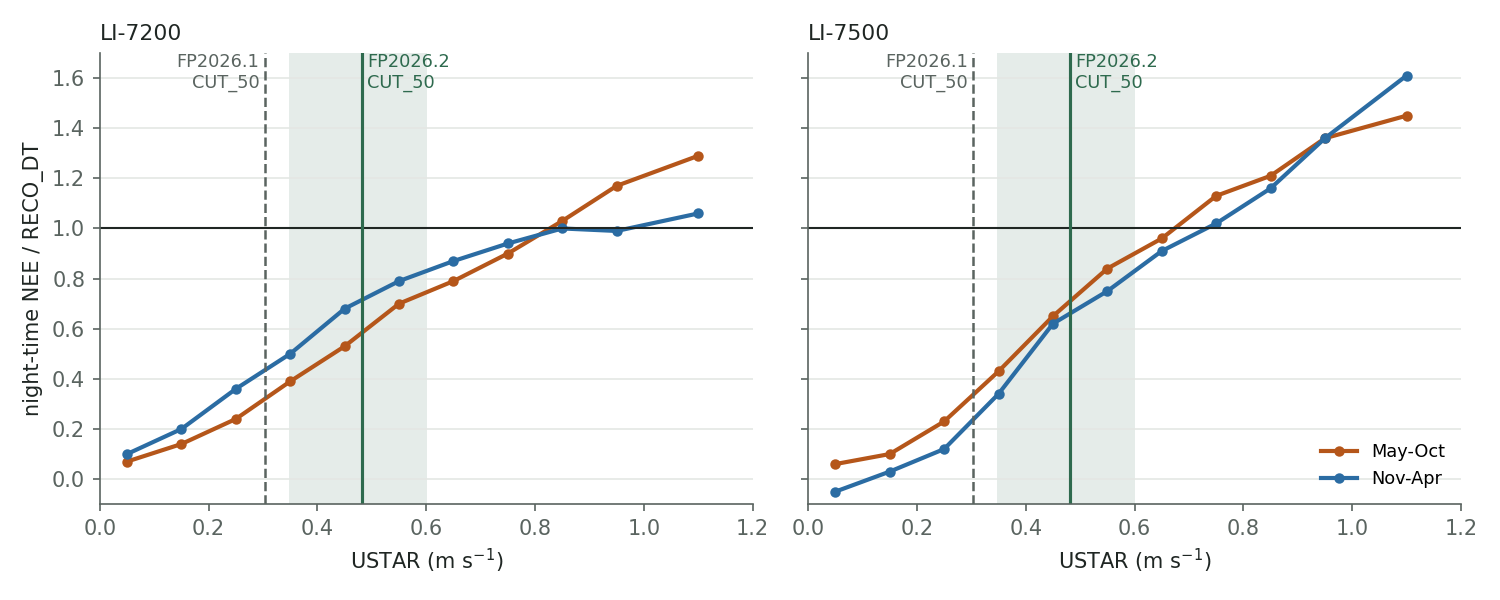
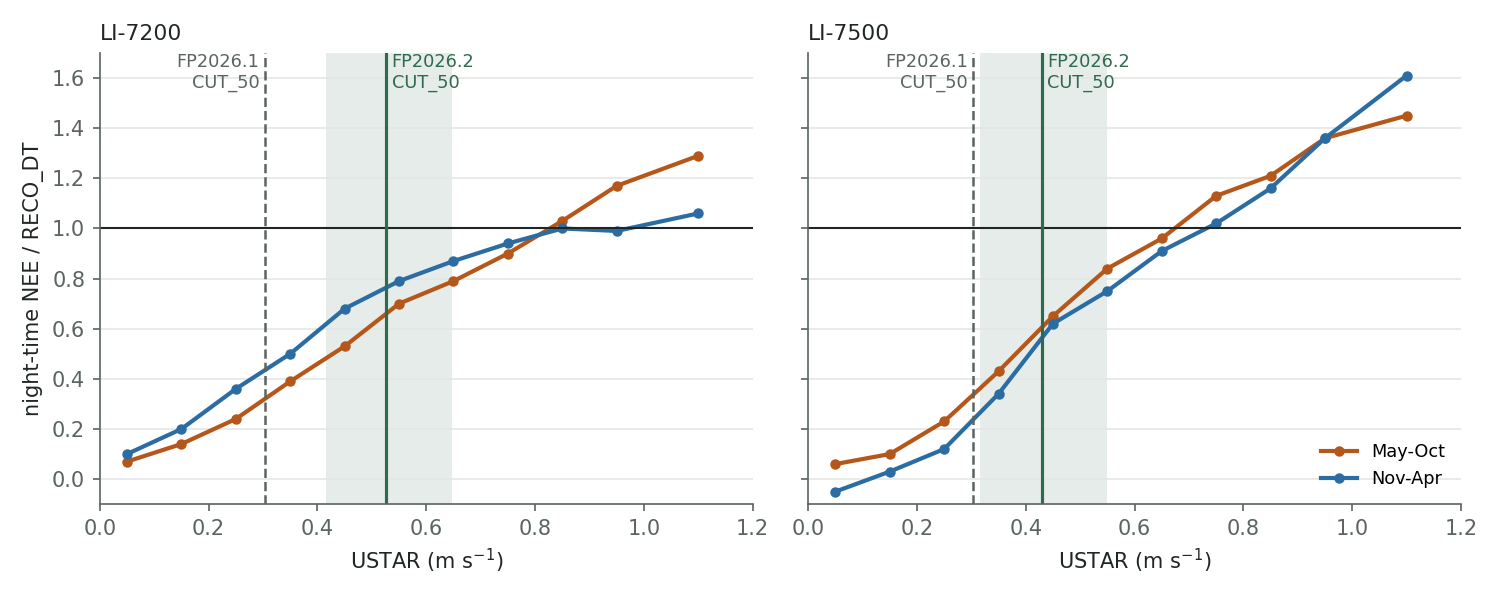
Show the per-analyser thresholds on the USTAR constraints page
The figures mark each analyser's own set, and the page adds a section on the higher thresholds from 2018.

Changed region(s): [[0.184, 0.09, 0.3067, 0.84], [0.644, 0.09, 0.7667, 0.84]]

diff --git a/workflow/30_FLUX_POST-PROCESSING_CHAIN/USTAR_THRESHOLD_DETECTION_docs_figures.py b/workflow/30_FLUX_POST-PROCESSING_CHAIN/USTAR_THRESHOLD_DETECTION_docs_figures.py
@@ -17,8 +17,8 @@ ROOT = Path(__file__).resolve().parents[2]
 NB = ROOT / 'workflow' / '30_FLUX_POST-PROCESSING_CHAIN' / 'USTAR_THRESHOLD_DETECTION_2004-2026.09.ipynb'
 OUT = ROOT / 'docs' / 'images'
 
-# Thresholds (m s-1), as declared in the detection notebook (USTAR_SET, USTAR_THRESHOLDS_FP1)
-FP2 = [0.3476, 0.4811, 0.6011]
+# Thresholds (m s-1), as declared in the detection notebook (USTAR_THRESHOLDS, USTAR_THRESHOLDS_FP1)
+FP2 = {'LI-7200': [0.4155, 0.5264, 0.6472], 'LI-7500': [0.3166, 0.4294, 0.5487]}
 FP1 = [0.2716, 0.3036, 0.3397]
 
 INK, MUTED, GRID = '#1F2623', '#5A6460', '#E4E7E4'
@@ -49,13 +49,13 @@ def mid(label):
     return (lo + hi) / 2
 
 
-def thresholds(ax, ymax_label=True):
-    ax.axvspan(FP2[0], FP2[2], color=BAND, alpha=0.12, lw=0)
-    ax.axvline(FP2[1], color=BAND, lw=1.5)
+def thresholds(ax, fp2, ymax_label=True):
+    ax.axvspan(fp2[0], fp2[2], color=BAND, alpha=0.12, lw=0)
+    ax.axvline(fp2[1], color=BAND, lw=1.5)
     ax.axvline(FP1[1], color=MUTED, lw=1.2, ls='--')
     if ymax_label:
         y = ax.get_ylim()[1]
-        ax.text(FP2[1] + 0.01, y, 'FP2026.2\nCUT_50', va='top', ha='left', fontsize=8.5, color=BAND)
+        ax.text(fp2[1] + 0.01, y, 'FP2026.2\nCUT_50', va='top', ha='left', fontsize=8.5, color=BAND)
         ax.text(FP1[1] - 0.01, y, 'FP2026.1\nCUT_50', va='top', ha='right', fontsize=8.5, color=MUTED)
 
 
@@ -74,7 +74,7 @@ def fig_nee_by_ta(nb):
         ax.grid(axis='y', color=GRID, lw=0.8)
         ax.set_xlim(0, 1.2)
         ax.set_ylim(-0.5, 11)
-        thresholds(ax)
+        thresholds(ax, FP2[name.split(' ')[0]])
     axes[0].set_ylabel('mean night-time NEE (µmol m$^{-2}$ s$^{-1}$)')
     axes[1].legend(title='air temperature', frameon=False, loc='lower right', fontsize=8.5, title_fontsize=8.5)
     fig.tight_layout()
@@ -105,7 +105,7 @@ def fig_ratio_reco_dt(nb):
         ax.grid(axis='y', color=GRID, lw=0.8)
         ax.set_xlim(0, 1.2)
         ax.set_ylim(-0.1, 1.7)
-        thresholds(ax)
+        thresholds(ax, FP2[name])
     axes[0].set_ylabel('night-time NEE / RECO_DT')
     axes[1].legend(frameon=False, loc='lower right', fontsize=8.5)
     fig.tight_layout()
@@ -125,9 +125,11 @@ def fig_thresholds(nb):
     names = {'oneflux_mp': 'moving point', 'oneflux_cp': 'change point', 'oneflux': 'ONEFlux (both)',
              'reddyproc': 'REddyProc'}
     items = [('FP2026.1 (REddyProc, 30 classes)', FP1, MUTED),
-             ('FP2026.2: merged record, moving point', FP2, BAND)]
+             ('FP2026.2 LI-7500: own record, moving point', FP2['LI-7500'], BAND),
+             ('FP2026.2 LI-7200: own record, moving point', FP2['LI-7200'], BAND),
+             ('merged record, moving point (not used)', det[('merged record', 'oneflux_mp')], MUTED)]
     for rec in ['LI-7200', 'LI-7500']:
-        for m in ['oneflux_mp', 'oneflux_cp', 'oneflux', 'reddyproc']:
+        for m in ['oneflux_cp', 'oneflux', 'reddyproc']:
             items.append((f'{rec} record, {names[m]}', det[(rec, m)], INK))
     lo7500 = [v for y, v in vut.items() if y <= 2015]
     lo7200 = [v for y, v in vut.items() if y >= 2016]

diff --git a/docs/L3.3_Constraints.md b/docs/L3.3_Constraints.md
@@ -6,11 +6,11 @@ it means for the use of `NEE`, `RECO` and `GPP`. The filter and its thresholds a
 [`USTAR_THRESHOLD_DETECTION`](notebooks/30_FLUX_POST-PROCESSING_CHAIN/USTAR_THRESHOLD_DETECTION_2004-2026.09.html).
 
 ::: {.callout-note title="Thresholds on this page"}
-FP2026.2 uses one set for both analysers, detected with the ONEFlux moving point method on the
-record of the site (LI-7500 2004-2015, LI-7200 2016-2025): 0.348, 0.481 and 0.601 m s-1 for
-`CUT_16`, `CUT_50` and `CUT_84`. The set is applied from the next run of the flux chain;
-[Level 3.3](L3.3.md) still lists the per-analyser sets of the run of 1 November 2026, from which
-`RECO_DT` in @fig-c33-reco-dt comes. The figures are drawn from the outputs of the detection
+FP2026.2 uses one set per analyser, detected with the ONEFlux moving point method on its own
+complete years (`CUT_16`, `CUT_50`, `CUT_84`): 0.317, 0.429 and 0.549 m s-1 for the LI-7500
+(2004-2017), 0.416, 0.526 and 0.647 m s-1 for the LI-7200 (2016-2025). The sets are applied from the
+next run of the flux chain; [Level 3.3](L3.3.md) still lists the sets of the run of 1 November
+2026, from which `RECO_DT` in @fig-c33-reco-dt comes. The figures are drawn from the outputs of the detection
 notebook by `USTAR_THRESHOLD_DETECTION_docs_figures.py` in the same folder.
 :::
 
@@ -22,6 +22,8 @@ notebook by `USTAR_THRESHOLD_DETECTION_docs_figures.py` in the same folder.
   thresholds are lower bounds.
 - The detected value depends on the method, the record and the amount of data per detection: the
   medians range from 0.30 to 0.67 m s-1.
+- The annual thresholds are higher from 2018 than before, because the LI-7200 keeps more of the
+  windy nights than the LI-7500.
 - No independent reference fixes the threshold: the respiration of the daytime partitioning depends
   on it.
 - Annual `NEE` is therefore likely biased towards uptake, by an amount the tower data cannot
@@ -36,8 +38,8 @@ the FP2026.1 nor the FP2026.2 threshold marks the start of a plateau.
 
 ![Mean night-time `NEE` (`SW_IN` below 10 W m-2, after Level 3.2, before the USTAR filter) per
 0.1 m s-1 class of `USTAR` and five classes of air temperature, for the record of each analyser. The
-shaded band spans `CUT_16` to `CUT_84` of FP2026.2, the solid line is its `CUT_50`, the dashed line
-the `CUT_50` of FP2026.1.](images/USTAR_night_NEE_by_TA_class.png){#fig-c33-nee-ta}
+shaded band spans `CUT_16` to `CUT_84` of FP2026.2 for that analyser, the solid line is its
+`CUT_50`, the dashed line the `CUT_50` of FP2026.1.](images/USTAR_night_NEE_by_TA_class.png){#fig-c33-nee-ta}
 
 Two processes may contribute to the increase above any threshold:
 
@@ -69,10 +71,24 @@ The grey band marks the `USTAR` up to which night-time `NEE` increases.](images/
   September. The thresholds of single years are low partly because the class means of one year are
   noisy and pass the plateau test early.
 - **Record.** The record of each analyser gives a different `CUT_50` (0.43 m s-1 for the LI-7500,
-  0.52 m s-1 for the LI-7200). On the records both measured in 2016-2017 they agree within
+  0.53 m s-1 for the LI-7200). On the records both measured in 2016-2017 they agree within
   0.01 m s-1, so the difference comes from the years each record covers, not from the instruments.
   The annual thresholds of FLUXNET show the same pattern: 0.23 to 0.35 m s-1 in 2004-2015, 0.46 to
   0.60 m s-1 in 2016-2024.
+
+## The threshold is higher from 2018
+
+On the record of the site (the LI-7500 to 2015, the LI-7200 from 2016), the annual thresholds
+average 0.43 m s-1 in 2004-2017 and 0.55 m s-1 in 2018-2025, a difference larger than the scatter
+between years allows (Welch test, p < 0.001). The difference is not a change at the site. Climate,
+the processing settings, the measured `USTAR` and the replacement of the sonic anemometer in December
+2019 do not explain it, and on the records both analysers measured in 2016-2017 they give the same
+threshold. It lies in which nights each analyser keeps: the LI-7500 loses many windy nights to
+missing data, low signal strength and spikes, while the LI-7200 keeps more of them, increasingly
+after 2018. More kept records at high `USTAR` let the plateau test pass later. Within the LI-7200,
+2017 already lies at the later level; 2016 is low because its spring is missing. The annual
+threshold, the highest of the four seasonal ones, is also higher after windy winters (2007, 2018,
+2020, 2022). Each analyser therefore uses the set of its own record.
 
 ## Detection is biased low
 
@@ -123,15 +139,16 @@ threshold. This has not yet been quantified.
 ## Records kept and night-time respiration
 
 Every increase of the threshold removes measured nights, and the night-time respiration estimated
-from the remaining ones rises (@tbl-c33-kept).
+from the remaining ones rises (@tbl-c33-kept). The FP2026.2 `CUT_50` lies near 0.43 m s-1 for the
+LI-7500 and 0.53 m s-1 for the LI-7200.
 
 | Threshold (m s-1) | Night measured, LI-7200 (%) | Night measured, LI-7500 (%) | Respiration, LI-7200 | Respiration, LI-7500 |
 |---|---|---|---|---|
 | no USTAR filter | 59.7 | 47.9 | | |
 | FP2026.1 `CUT_50` (0.30) | 36.6 | 28.0 | +0 % | +0 % |
-| FP2026.2 `CUT_16` (0.35) | 32.8 | 25.0 | +6 % | +7 % |
-| FP2026.2 `CUT_50` (0.48) | 23.1 | 17.1 | +22 % | +27 % |
-| FP2026.2 `CUT_84` (0.60) | 16.2 | 11.3 | +33 % | +45 % |
+| 0.35 | 32.8 | 25.0 | +6 % | +7 % |
+| 0.48 | 23.1 | 17.1 | +22 % | +27 % |
+| 0.60 | 16.2 | 11.3 | +33 % | +45 % |
 | 0.70 | 11.6 | 7.7 | +44 % | +61 % |
 
 : Share of the night half-hours that stay measured after Level 3.2 and the USTAR filter, and the
@@ -151,10 +168,11 @@ change of the annual night-time respiration estimated from them, relative to the
   respiration. The tower data cannot determine the size of the bias.
 - **Compare the two partitionings with care.** A difference between `RECO_NT` and `RECO_DT` may in
   part reflect the threshold rather than the partitioning models.
-- **One threshold for both analysers.** Differences in `NEE` between the LI-7500 and the LI-7200
-  periods do not arise from the USTAR filter.
-- **Night-time `NEE` is mostly gap-filled.** At `CUT_50`, 17 % (LI-7500) and 23 % (LI-7200) of the
-  night half-hours stay measured.
+- **Different thresholds per analyser.** The LI-7200 years are filtered at a higher threshold than
+  the LI-7500 years. Part of a difference in night-time `NEE` between the two periods may therefore
+  arise from the USTAR filter.
+- **Night-time `NEE` is mostly gap-filled.** At `CUT_50`, about a fifth of the night half-hours stay
+  measured (@tbl-c33-kept).
 
 ## References
 
